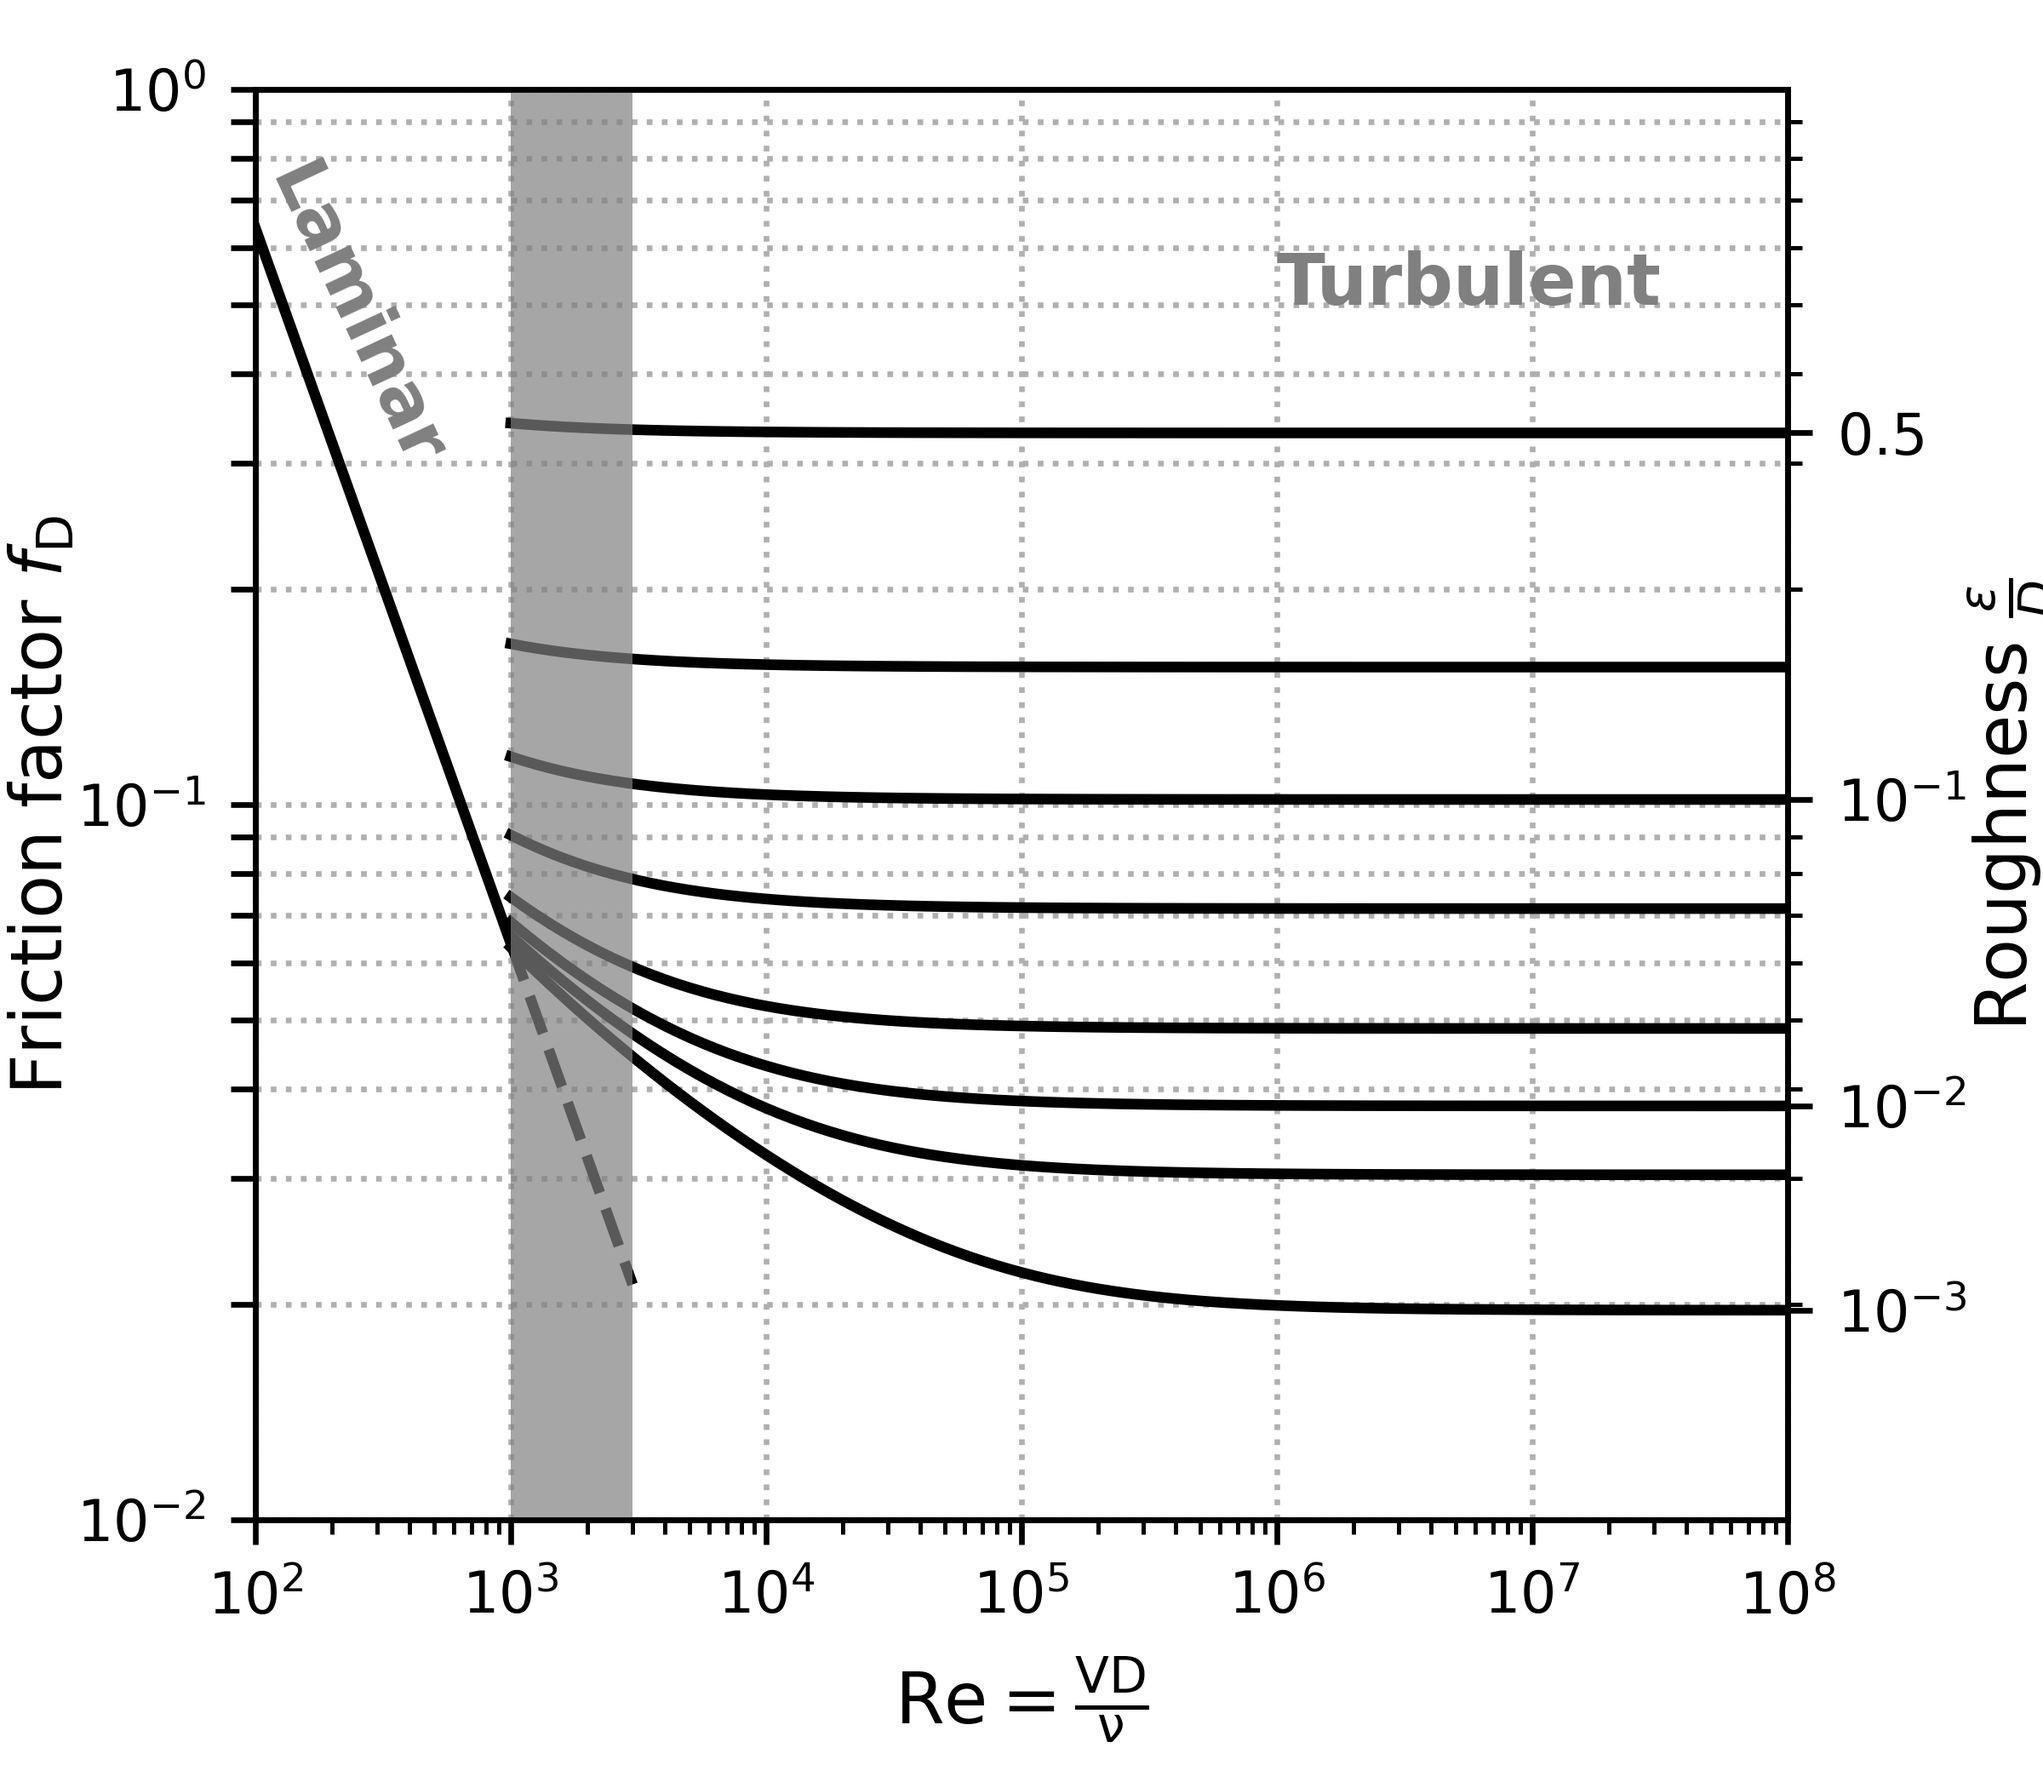
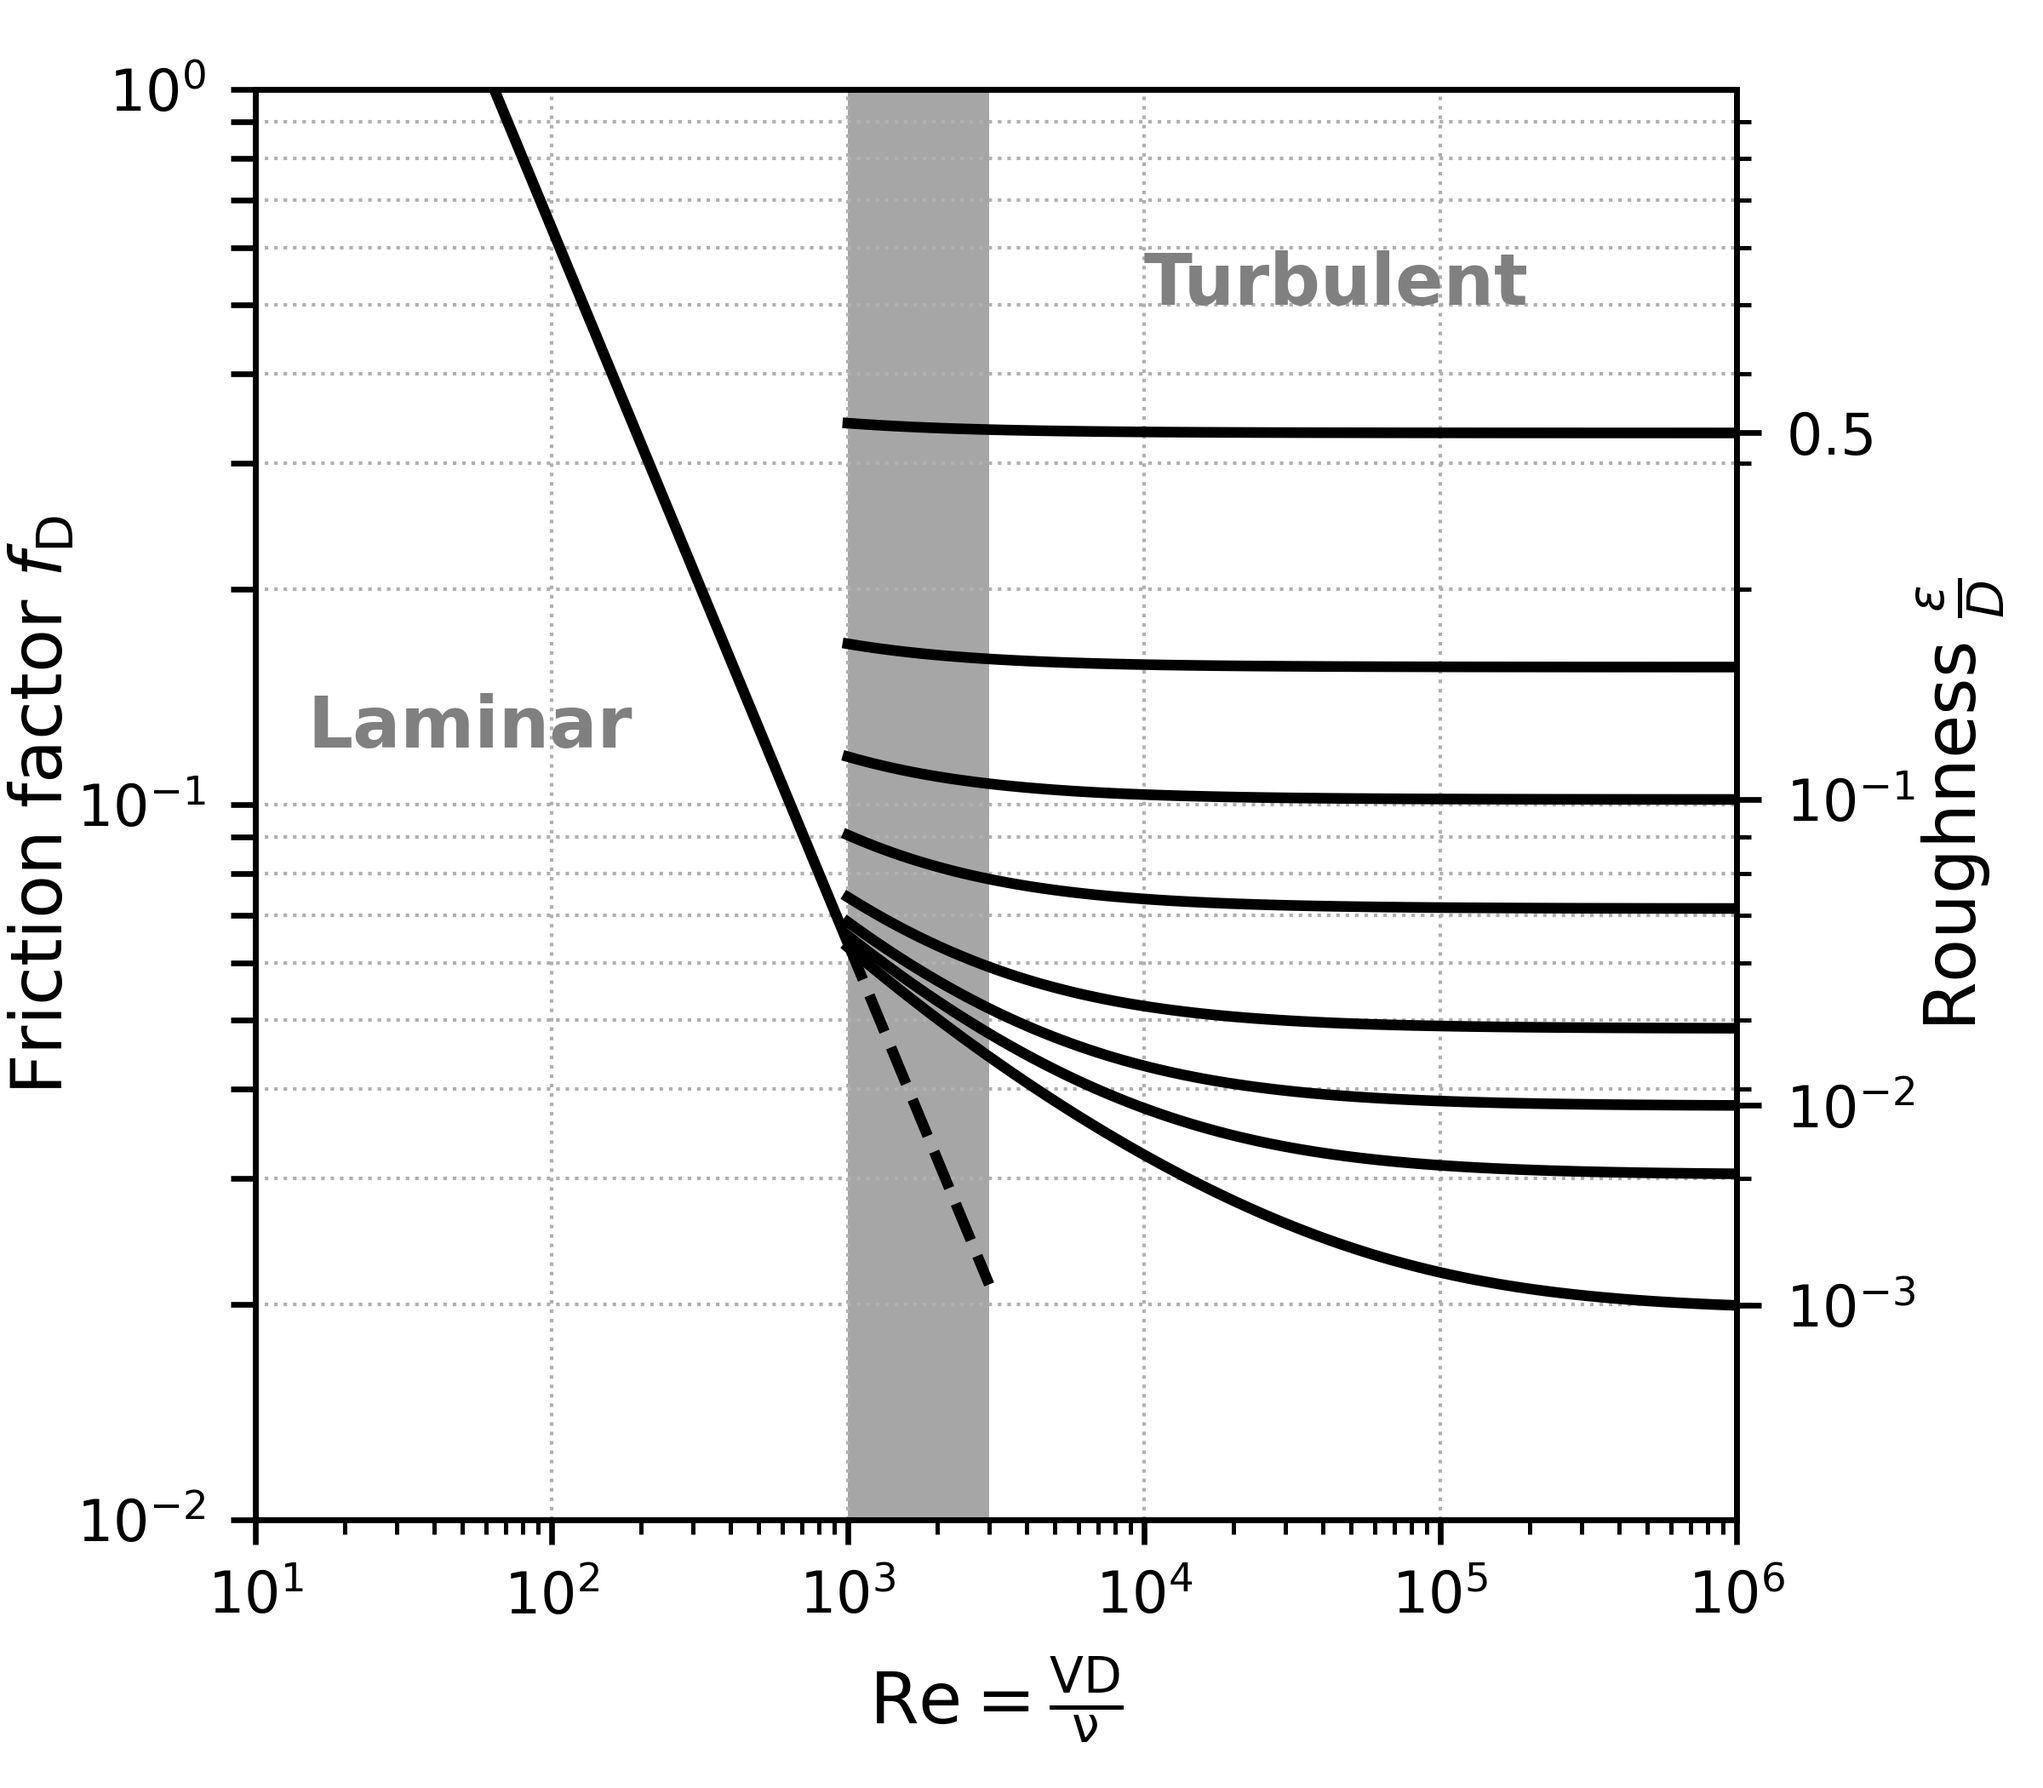
Moody diagram

Changed region(s): [[0.125, 0.031, 1.0, 0.9905], [0.5625, 0.1238, 0.8125, 0.1857], [0.6875, 0.8357, 0.7812, 0.8976]]

diff --git a/analysis/plot_moody_scatter.py b/analysis/plot_moody_scatter.py
@@ -10,16 +10,10 @@ from scipy.optimize import newton
 from scipy import interpolate
 
 from matplotlib import pyplot as plt
+from matplotlib import ticker
 import netCDF4 as nc
 
 import defaults
-
-# pattern = '../glads/00_shmip_forcing_shmip_topo/RUN/output_%03d_seasonal.nc'
-# cases = [201, 202, 203, 204, 205]
-
-# pattern = '../glads/_00_shmip_forcing_shmip_topo/RUN/output_%03d_seasonal.nc'
-# cases = [1, 2, 3, 4, 5]
-
 
 models = ['Turbulent 5/4', 'Turbulent 3/2', 'Laminar', 'Transition 5/4', 'Transition 3/2']
 
@@ -40,7 +34,7 @@ def plot_moody(fnames, figname, colors=defaults.colors, omega=1/2000,
     eps_d_labels = [r'$10^{-3}$', r'$10^{-2}$', r'$10^{-1}$', r'$0.5$']
 
     # Reynolds number for computation
-    Re = np.logspace(3 + 0, 8, 101)
+    Re = np.logspace(3 + 0, 6, 101)
     Re_safe = Re.copy()
 
     # Compute friction factor as function of Re
@@ -55,7 +49,7 @@ def plot_moody(fnames, figname, colors=defaults.colors, omega=1/2000,
         friction = 1/ff**2
         darcy_friction[ii] = friction
 
-    Re_laminar = np.logspace(2, 3, 21)
+    Re_laminar = np.logspace(1, 3, 21)
     laminar_friction = 64/Re_laminar
 
     Re_transition = np.logspace(3, 3 + np.log10(3), 5)
@@ -65,13 +59,13 @@ def plot_moody(fnames, figname, colors=defaults.colors, omega=1/2000,
     ax_theory.loglog(Re, darcy_friction.T, color='k')
     ax_theory.loglog(Re_laminar, laminar_friction, color='k')
     ax_theory.loglog(Re_transition, laminar_transition, color='k', linestyle='--')
-    ax_theory.grid(linestyle=':')
+    ax_theory.grid(linestyle=':', linewidth=0.5)
 
     ax_theory.set_yticks(list(np.arange(1e-2, 1e-1, 1e-2)) + list(np.arange(1e-1, 1e0 + 1e-1, 1e-1)))
     ax_theory.set_ylim([1e-2, 1e0])
     ax_theory.set_xlim([Re_laminar[0], Re[-1]])
 
-    ax_theory.fill_betweenx([1e-2, 1e0], [1000, 1000], [3000, 3000], facecolor='grey', alpha=0.7, zorder=10)
+    ax_theory.fill_betweenx([1e-2, 1e0], [1000, 1000], [3000, 3000], facecolor='grey', alpha=0.7, zorder=0)
 
     ax_theory.set_xlabel(r'$\rm{Re} = \frac{VD}{\nu}$')
     ax_theory.set_ylabel(r'Friction factor $f_{\rm{D}}$', labelpad=0)# = \frac{h_{\rm{f}}}{\left(\frac{L}{D}\right) \frac{V^2}{2g}}$')
@@ -84,9 +78,10 @@ def plot_moody(fnames, figname, colors=defaults.colors, omega=1/2000,
     ax_right.set_yticklabels(eps_d_labels)
     ax_right.set_ylabel(r'Roughness $\frac{\epsilon}{D}$', labelpad=0)
 
-    ax_theory.text(1e2, 0.3, 'Laminar', rotation=-65, fontweight='bold', color='gray')
+    # ax_theory.text(1e2, 0.3, 'Laminar', rotation=-65, fontweight='bold', color='gray')
+    ax_theory.text(1.5e1, 1.2e-1, 'Laminar', rotation=0, fontweight='bold', color='gray')
     # ax_theory.text(2000, 0.6, 'Transition', rotation=0, fontweight='bold', color='gray', ha='center')
-    ax_theory.text(1e6, 0.5, 'Turbulent', rotation=0, fontweight='bold', color='gray')
+    ax_theory.text(1e4, 0.5, 'Turbulent', rotation=0, fontweight='bold', color='gray')
 
 
     for ii in range(len(fnames)):
@@ -135,35 +130,48 @@ def plot_moody(fnames, figname, colors=defaults.colors, omega=1/2000,
 
     ax_scatter.set_xscale('log')
     ax_scatter.set_yscale('log')
-    ax_scatter.set_xlim([1e1, 1e7])
+    ax_scatter.set_xlim([1e1, 1e6])
     ax_scatter.set_ylim([1e0, 1e2])
+    # ax_scatter.set_ylim([5e-1, 5e1])
+    ax_scatter.set_xticks([1e1, 1e2, 1e3, 1e4, 1e5, 1e6])
+    
 
-    ax_scatter.grid(linestyle=':', zorder=0)
+    ax_scatter.grid(linestyle=':', linewidth=0.5, zorder=0)
 
+    ## OPTIONAL: scaling for plotting model and empirical curves on the same axes
     # k_32 = 0.0189208879284245
     # eps = 0.1
     # # c = 1000*k_32**2/4/(np.log(eps/3.7)**2)
     # c = f_D
-    # print(f_D/k_32)
-    c = darcy_friction[2][-1]/f_32
-
+    # # print(f_D/k_32)
+    # c = darcy_friction[2][-1]/f_32
     # c = 64/Re[0] / f_lam
+    # 
+    # print(c)
+    # print(eps_d[-3])
+    # print(darcy_friction.shape)
+    # print(darcy_friction[-3]/c)
+    # ax_scatter.loglog(Re_safe, darcy_friction.T/c, color='k', linewidth=0.5)
+    # ax_scatter.loglog(Re_laminar, 64/Re_laminar/c, color='k', linewidth=0.5)
+    # ax_scatter.loglog(Re_transition, 64/Re_transition/c, color='k', linewidth=0.5, linestyle='--')
 
-    # print('c1:', c)
-    # print('c2:', c2)
 
     ax_scatter.set_xlabel(r'${\rm{Re}} = \frac{q}{\nu}$')
     # ax_scatter.set_ylabel(r'$f_{\rm{D}} = \frac{h^3 |\nabla \phi|}{\rho_{\rm{w}} \nu^2 {\rm{Re}}^2}$', fontsize=12)
-    ax_scatter.set_ylabel(r'Friction factor $f_{\rm{D}}$', labelpad=0)
+    ax_scatter.set_ylabel(r'Modelled friction factor $f_{\rm{D}}$', labelpad=0)
     # ax_scatter.legend(markerscale=5, loc='upper right', framealpha=1, edgecolor='none')
-    ax_scatter.text(-0.2, 1, 'b', transform=ax_scatter.transAxes, fontweight='bold')
-    print(c)
-    print(eps_d[-3])
-    print(darcy_friction.shape)
-    print(darcy_friction[-3]/c)
-    ax_scatter.loglog(Re_safe, darcy_friction.T/c, color='k', linewidth=0.5)
-    ax_scatter.loglog(Re_laminar, 64/Re_laminar/c, color='k', linewidth=0.5)
-    ax_scatter.loglog(Re_transition, 64/Re_transition/c, color='k', linewidth=0.5, linestyle='--')
+    # ax_scatter.text(-0.2, 1, 'b', transform=ax_scatter.transAxes, fontweight='bold')
+
+    ax_sctwin = ax_scatter.twinx()
+
+    ax_sctwin.loglog(Re_safe, darcy_friction.T, color='k', linewidth=0.5, zorder=0)
+    ax_sctwin.loglog(Re_laminar, 64/Re_laminar, color='k', linewidth=0.5, zorder=-1)
+    ax_sctwin.loglog(Re_transition, 64/Re_transition, color='k', linewidth=0.5, linestyle='--')
+    ax_sctwin.set_yticks(list(np.arange(1e-2, 1e-1, 1e-2)) + list(np.arange(1e-1, 1e0 + 1e-1, 1e-1)))
+    ax_sctwin.set_ylim([1e-2, 1e0])
+    ax_sctwin.set_ylabel(r'Empirical friction factor $f_{\rm{D}}$', labelpad=4)
+    ax_sctwin.set_zorder(ax_scatter.get_zorder() - 1)
+    ax_scatter.patch.set_visible(False)
 
 
     ax_scatter.legend(bbox_to_anchor=[0.1, 1.02, 0.8, 0.2],
@@ -182,23 +190,12 @@ def plot_moody(fnames, figname, colors=defaults.colors, omega=1/2000,
     ax_scatter.set_yticks(yticks)
 
 
-    # ax_scatter.text(1e1, 1e1, 'Laminar', rotation=-63, fontweight='bold', color='gray')
     ax_scatter.text(1.5e1, 1.2e1, 'Laminar', rotation=0, fontweight='bold', color='gray')
-    # ax_scatter.text(2000, 50, 'Transition', rotation=0, fontweight='bold', color='gray', ha='center')
-    ax_scatter.text(1e5, 50, 'Turbulent', rotation=0, fontweight='bold', color='gray')
+    ax_scatter.text(1e4, 50, 'Turbulent', rotation=0, fontweight='bold', color='gray')
 
 
-    fig_theory.subplots_adjust(wspace=0.45, bottom=0.15, left=0.125, right=0.875, top=0.95)
-    fig_scatter.subplots_adjust(wspace=0.45, bottom=0.125, left=0.125, right=0.97, top=0.85)
-
-    # ax_scatter.legend(bbox_to_anchor=[-0.125, 1.02, 1.125, 0.102], loc='lower left',
-    #     ncol=2, mode='expand', borderaxespad=0.05, frameon=False, borderpad=0,
-    #     markerscale=5)
-    # fig.subplots_adjust(wspace=0.6, bottom=0.2, left=0.1, right=0.95, top=0.8)
-
-
-    # ax_scatter.axhline(max_f_D, color='k', linewidth=1)
-    # plt.tight_layout()
+    fig_theory.subplots_adjust(wspace=0.45, bottom=0.15, left=0.125, right=0.85, top=0.95)
+    fig_scatter.subplots_adjust(wspace=0.45, bottom=0.125, left=0.125, right=0.85, top=0.85)
 
     fig_theory.savefig(fignames[0], dpi=600)
     fig_scatter.savefig(fignames[1], dpi=600)

diff --git a/analysis/experimental/transition_activation.py b/analysis/experimental/transition_activation.py
@@ -1,0 +1,130 @@
+"""
+
+Plot relative size of each term in the transition parameterization
+
+"""
+
+import numpy as np
+import netCDF4 as nc
+from matplotlib import pyplot as plt
+from matplotlib import gridspec
+
+import cmocean
+
+
+def plot_activation(fname, figname, tlim=[3, 9]):
+    fig = plt.figure(figsize=(6, 4))
+    gs = gridspec.GridSpec(2, 2, width_ratios=(100, 50),
+        height_ratios=(5, 100), hspace=0.05, wspace=0.15,
+        bottom=0.125, top=0.875, right=0.975, left=0.1)
+    
+    ax0 = fig.add_subplot(gs[1, 0])
+    ax1 = fig.add_subplot(gs[1, 1])
+    cax = fig.add_subplot(gs[0, 0])
+
+    dmesh = nc.Dataset('../../glads/data/mesh/mesh_04.nc')
+    nodes = dmesh['tri/nodes'][:].data.T
+    connect = dmesh['tri/connect'][:].data.T
+    # elements = dmesh['tri/elements'][:].data.T
+    area = dmesh['tri/area'][:].data.T
+
+    with nc.Dataset(fname, 'r') as out:
+        # h = out['h_sheet'][:].data.T
+        qxy = out['qs'][:].data.T
+        qs = np.sqrt(np.sum(qxy**2, axis=1))
+        # omega = out['para/omega'][:].data
+        omega = 1/2000
+        k = out['para/cond_s'][:].data
+        nu = out['para/nu'][:].data
+        elements = out['elements'][:].data.T
+        time = out['time'][:].data.T
+    
+    term_laminar = qs
+    term_turbulent = omega*(qs/nu)*qs
+
+    # Width-average for plotting
+    metric = lambda x: np.nanmean(x, axis=0)
+    x, term_laminar_avg = width_average(elements, term_laminar, metric=metric)
+    x, term_turbulent_avg = width_average(elements, term_turbulent, metric=metric)
+
+    norm_laminar_avg = term_laminar_avg/(term_laminar_avg + term_turbulent_avg)
+    norm_turbulent_avg = term_turbulent_avg/(term_laminar_avg + term_turbulent_avg)
+
+    t_month = 12*(time - time[0])/365/86400 - 12
+    [xx, tt] = np.meshgrid(x, t_month)
+    pc = ax0.pcolormesh(xx/1e3, tt, norm_turbulent_avg.T, cmap=cmocean.cm.rain, vmin=0, vmax=1)
+
+    fig.colorbar(pc, cax=cax, orientation='horizontal')
+
+    norm_turbulent_domain_avg = np.mean(norm_turbulent_avg, axis=0)
+    norm_turbulent_domain_max = np.max(norm_turbulent_avg, axis=0)
+    ax1.plot(norm_turbulent_domain_avg, t_month, color='k', label='Mean')
+    ax1.plot(norm_turbulent_domain_max, t_month, color='gray', label='Max')
+    
+    # Refine axes
+    ax0.set_xlim([0, 100])
+    ax1.set_xlim([0, 1])
+
+    yticks = [0, 1, 2, 3, 4, 5, 6, 7, 8, 9, 10, 11]
+    ax0.set_yticks(yticks)
+    ax0.set_yticklabels(['Jan', 'Feb', 'Mar', 'April', 'May', 'June', 'July', 'Aug', 'Sep', 'Oct', 'Nov', 'Dec'])
+    ax1.set_yticks(yticks)
+    ax1.set_yticklabels([])
+    ax0.set_ylim(tlim)
+    ax1.set_ylim(tlim)
+
+    ax0.set_xlabel('Upglacier distance (km)')
+    ax0.set_ylabel('Month')
+    ax1.set_xlabel(r'Fraction turbulent ($\gamma_{\rm{turb}}$)')
+    ax1.grid()
+
+    cax.xaxis.tick_top()
+    cax.xaxis.set_label_position('top')
+    cax.set_xlabel(r'Fraction turbulent ($\gamma_{\rm{turb}}$)')
+
+    ax0.text(0.98, 0.95, 'a', transform=ax0.transAxes, va='top', ha='right', fontweight='bold')
+    ax1.text(0.95, 0.95, 'b', transform=ax1.transAxes, va='top', ha='right', fontweight='bold')
+
+    fig.savefig(figname, dpi=400)
+    return fig
+
+
+def width_average(xy, z, dx=1e3, metric=np.nanmean, xmin=0, xmax=100e3):
+    """Width-average field z according to coordinates xy.
+
+    Arguments:
+    ---------
+    xy : (N, 2) array in meters
+    z : (N,) array
+    dx : Flowline increment in meters
+    area : Area corresponding to elements z is defined on
+    metric : Function to evaluate (np.nanmean, np.median, etc...)
+
+    Returns:
+    --------
+    xmid : Midpoint coordinates
+    z_avg : z averaged over intervals centered on xmid
+
+    """
+    xedge = np.arange(xmin, xmax+dx, dx)
+    xmid = 0.5*(xedge[1:] + xedge[:-1])
+
+    xvec = np.reshape(xy[:, 0], (xy.shape[0], 1))
+    gvec = np.array([xmid])
+
+    tf_mask = np.logical_and(xvec>=(gvec-dx/2), xvec<=(gvec+dx/2))
+    z_avg = np.zeros((len(xmid), z.shape[1]))
+    for i in range(len(xmid)):
+        z_avg[i] = metric(z[tf_mask[:, i]])
+    
+    return xmid, z_avg
+
+if __name__=='__main__':
+    fname = '../../glads/00_synth_forcing/RUN/output_005_seasonal.nc'
+    figname = '00_activation.png'
+    fig = plot_activation(fname, figname, tlim=[3, 9])
+
+    fname = '../../glads/01_kan_forcing/RUN/output_005_seasonal.nc'
+    figname = '01_activation.png'
+    fig = plot_activation(fname, figname, tlim=[4, 10])
+    plt.show()
